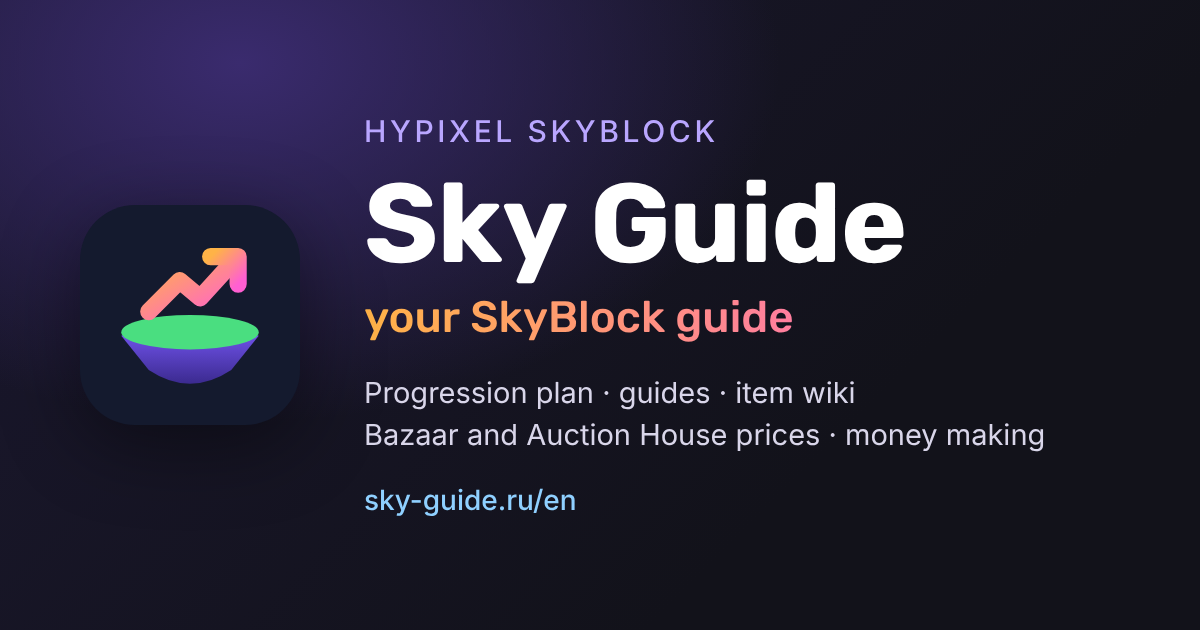
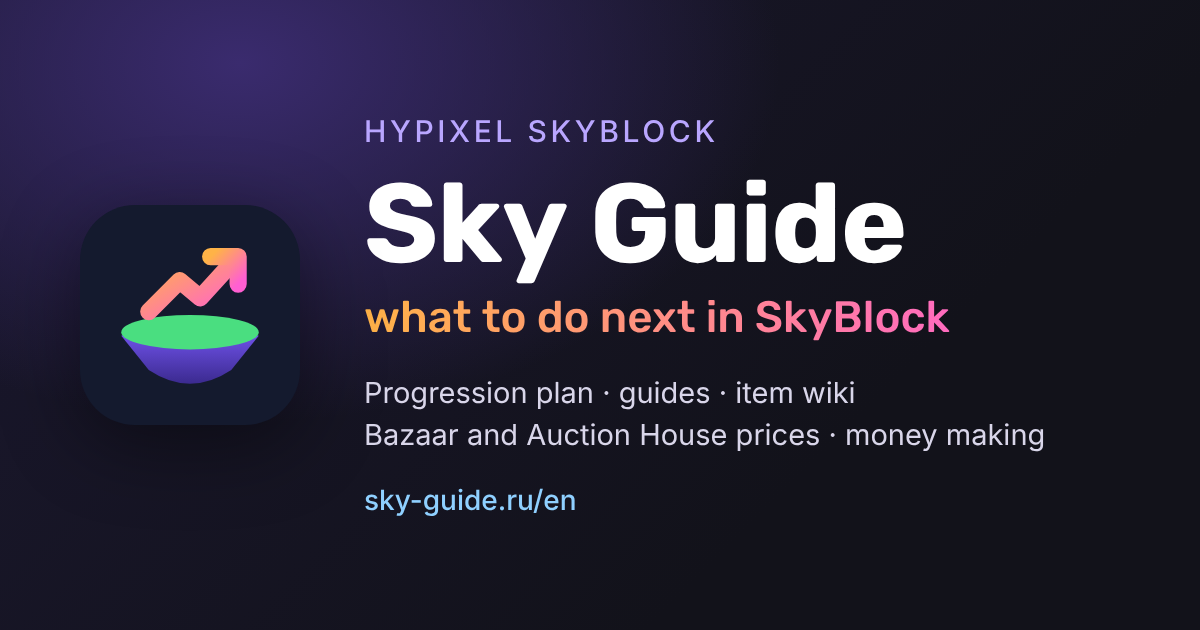
Подвал: ссылка на Discord; превью ссылки без повтора заголовка (#26)
* Подвал: ссылка на Discord Sky Guide в колонке «Связь»

Claude-Session: https://claude.ai/code/session_01SvhymiPq4DNGtc8LhFLPmG

* Превью ссылки: подзаголовок «что делать дальше в SkyBlock» вместо повтора заголовка

Claude-Session: https://claude.ai/code/session_01SvhymiPq4DNGtc8LhFLPmG

---------

Changed region(s): [[0.3083, 0.4825, 0.8017, 0.5429]]

diff --git a/src/components/SiteFooter.jsx b/src/components/SiteFooter.jsx
@@ -53,6 +53,7 @@ export default function SiteFooter() {
         <nav className="sf-col sf-contact" aria-label="Связь">
           <h4>Связь</h4>
           {pub.contactEmail && <a href={`mailto:${pub.contactEmail}`}>{pub.contactEmail}</a>}
+          <a href="https://discord.gg/hHgJJFCGQe" {...ext}>Discord</a>
           <button type="button" className="linklike" onClick={() => setFb(true)}>Сообщить об ошибке</button>
         </nav>
         <div className="sf-col sf-data">
